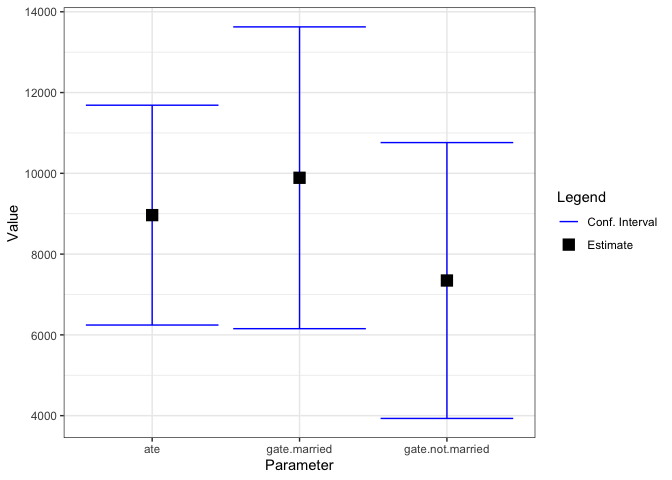
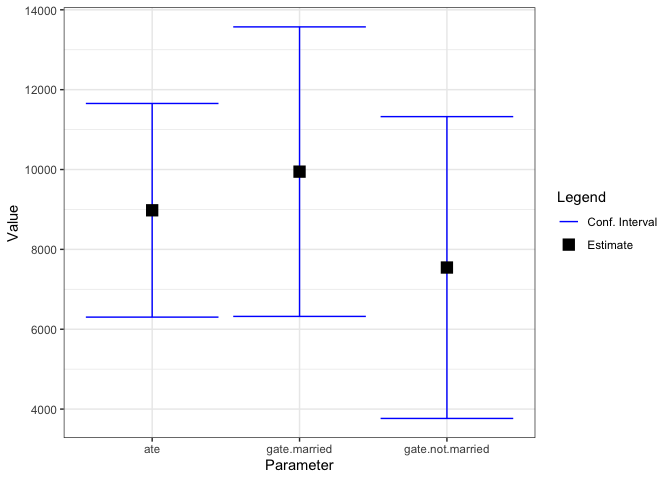
- fix summary

diff --git a/README.md b/README.md
@@ -67,23 +67,23 @@ summary(dml.plm)
 #> 
 #>  Model: Partially Linear 
 #>  Cross-Fitting: 5 folds, 5 reps 
-#>  ML Method: outcome (ranger, R2 = 0.271), treatment (ranger, R2 = 0.116)
+#>  ML Method: outcome (ranger, R2 = 0.263), treatment (ranger, R2 = 0.117)
 #>  Tuning: clean 
 #> 
 #> Average Treatment Effect: 
 #> 
 #>     Estimate Std. Error t value   P(>|t|)    
-#> ate   8965.2     1388.6  6.4564 1.072e-10 ***
+#> ate   8978.9     1365.1  6.5776 4.782e-11 ***
 #> ---
 #> Signif. codes:  0 '***' 0.001 '**' 0.01 '*' 0.05 '.' 0.1 ' ' 1
 #> 
 #> Group Average Treatment Effect: 
 #> 
 #>         Estimate Std. Error t value   P(>|t|)    
-#> gate.q1   4466.0     1058.5  4.2190 2.454e-05 ***
-#> gate.q2   3303.7     1213.3  2.7229 0.0064703 ** 
-#> gate.q3   6788.9     1859.7  3.6504 0.0002618 ***
-#> gate.q4  18393.8     4051.2  4.5403 5.616e-06 ***
+#> gate.q1   4470.4     1036.9  4.3112 1.624e-05 ***
+#> gate.q2   3180.6     1254.3  2.5357 0.0112208 *  
+#> gate.q3   6785.9     1925.4  3.5245 0.0004244 ***
+#> gate.q4  18226.3     4071.0  4.4771 7.567e-06 ***
 #> ---
 #> Signif. codes:  0 '***' 0.001 '**' 0.01 '*' 0.05 '.' 0.1 ' ' 1
 #> 
@@ -96,27 +96,27 @@ summary(dml.plm, combine.method = "mean")
 #> 
 #>  Model: Partially Linear 
 #>  Cross-Fitting: 5 folds, 5 reps 
-#>  ML Method: outcome (ranger, R2 = 0.269), treatment (ranger, R2 = 0.116)
+#>  ML Method: outcome (ranger, R2 = 0.262), treatment (ranger, R2 = 0.116)
 #>  Tuning: clean 
 #> 
 #> Average Treatment Effect: 
 #> 
 #>     Estimate Std. Error t value   P(>|t|)    
-#> ate   9073.0     1328.7  6.8283 8.591e-12 ***
+#> ate   8983.4     1337.7  6.7156 1.873e-11 ***
 #> ---
 #> Signif. codes:  0 '***' 0.001 '**' 0.01 '*' 0.05 '.' 0.1 ' ' 1
 #> 
 #> Group Average Treatment Effect: 
 #> 
 #>         Estimate Std. Error t value   P(>|t|)    
-#> gate.q1   4484.8     1025.4  4.3738 1.221e-05 ***
-#> gate.q2   3240.8     1191.1  2.7208 0.0065119 ** 
-#> gate.q3   6731.6     1844.4  3.6498 0.0002624 ***
-#> gate.q4  18522.3     3939.8  4.7013 2.585e-06 ***
+#> gate.q1   4464.5     1034.9  4.3138 1.605e-05 ***
+#> gate.q2   3225.3     1201.2  2.6850 0.0072523 ** 
+#> gate.q3   6804.1     1853.3  3.6713 0.0002414 ***
+#> gate.q4  18164.4     3990.9  4.5514 5.329e-06 ***
 #> ---
 #> Signif. codes:  0 '***' 0.001 '**' 0.01 '*' 0.05 '.' 0.1 ' ' 1
 #> 
-#> Note: DML estimates combined using the median method.
+#> Note: DML estimates combined using the mean method.
 ```
 
 ### extract coefs, se, confidence intervals
@@ -125,40 +125,40 @@ summary(dml.plm, combine.method = "mean")
 # coef median method (default)
 coef(dml.plm)
 #>       ate   gate.q1   gate.q2   gate.q3   gate.q4 
-#>  8965.198  4466.042  3303.666  6788.857 18393.828
+#>  8978.883  4470.375  3180.599  6785.947 18226.276
 
 # coef mean method (default)
 coef(dml.plm, combine.method = "mean")
 #>       ate   gate.q1   gate.q2   gate.q3   gate.q4 
-#>  9073.003  4484.794  3240.847  6731.565 18522.309
+#>  8983.350  4464.520  3225.331  6804.128 18164.356
 
 # se median method (default)
 se(dml.plm); 
 #>      ate  gate.q1  gate.q2  gate.q3  gate.q4 
-#> 1388.567 1058.547 1213.269 1859.737 4051.194
+#> 1365.076 1036.921 1254.304 1925.390 4071.009
 
 # se median method (default)
 se(dml.plm, combine.method = "mean")
 #>      ate  gate.q1  gate.q2  gate.q3  gate.q4 
-#> 1328.729 1025.371 1191.127 1844.364 3939.797
+#> 1337.685 1034.942 1201.227 1853.348 3990.944
 
 # confint median method (default)
 confint(dml.plm) 
 #>              2.5 %    97.5 %
-#> ate      6243.6563 11686.740
-#> gate.q1  2391.3276  6540.756
-#> gate.q2   925.7016  5681.630
-#> gate.q3  3143.8398 10433.875
-#> gate.q4 10453.6339 26334.022
+#> ate      6303.3823 11654.383
+#> gate.q1  2438.0482  6502.702
+#> gate.q2   722.2076  5638.990
+#> gate.q3  3012.2521 10559.641
+#> gate.q4 10247.2451 26205.306
 
 # confint mean method
 confint(dml.plm, combine.method = "mean")
-#>              2.5 %    97.5 %
-#> ate      6468.7433 11677.264
-#> gate.q1  2475.1033  6494.486
-#> gate.q2   906.2816  5575.412
-#> gate.q3  3116.6781 10346.452
-#> gate.q4 10800.4491 26244.168
+#>             2.5 %    97.5 %
+#> ate      6361.535 11605.165
+#> gate.q1  2436.071  6492.969
+#> gate.q2   870.969  5579.694
+#> gate.q3  3171.633 10436.622
+#> gate.q4 10342.249 25986.463
 ```
 
 ### plot
@@ -174,54 +174,41 @@ plot(dml.plm)
 ``` r
 ## compute GATE by married
 g2 <- ifelse(pension$marr, "married", "not.married")
-
-## compute GATEs
 dml.g2 <- dml_gate(dml.fit = dml.plm, groups = g2)
-dml.g2
-#> 
-#> Debiased Machine Learning
-#> 
-#> Call:
-#> dml(y = y, d = d, x = x, model = "plm", groups = g2, cf.folds = 5, 
-#>     cf.reps = 5)
-#> 
-#> Estimates:
-#>              ate      gate.married  gate.not.married  
-#>             8965              9890              7346
-
 summary(dml.g2)
 #> 
 #> Debiased Machine Learning
 #> 
 #>  Model: Partially Linear 
 #>  Cross-Fitting: 5 folds, 5 reps 
-#>  ML Method: outcome (ranger, R2 = 0.271), treatment (ranger, R2 = 0.116)
+#>  ML Method: outcome (ranger, R2 = 0.263), treatment (ranger, R2 = 0.117)
 #>  Tuning: clean 
 #> 
 #> Average Treatment Effect: 
 #> 
 #>     Estimate Std. Error t value   P(>|t|)    
-#> ate   8965.2     1388.6  6.4564 1.072e-10 ***
+#> ate   8978.9     1365.1  6.5776 4.782e-11 ***
 #> ---
 #> Signif. codes:  0 '***' 0.001 '**' 0.01 '*' 0.05 '.' 0.1 ' ' 1
 #> 
 #> Group Average Treatment Effect: 
 #> 
 #>                  Estimate Std. Error t value   P(>|t|)    
-#> gate.married       9889.7     1906.3  5.1879 2.126e-07 ***
-#> gate.not.married   7346.2     1742.4  4.2161 2.486e-05 ***
+#> gate.married       9946.8     1849.8  5.3772 7.566e-08 ***
+#> gate.not.married   7545.4     1928.3  3.9129 9.119e-05 ***
 #> ---
 #> Signif. codes:  0 '***' 0.001 '**' 0.01 '*' 0.05 '.' 0.1 ' ' 1
 #> 
 #> Note: DML estimates combined using the median method.
+
 coef(dml.g2)
 #>              ate     gate.married gate.not.married 
-#>         8965.198         9889.721         7346.183
+#>         8978.883         9946.838         7545.380
 confint(dml.g2)
 #>                     2.5 %   97.5 %
-#> ate              6243.656 11686.74
-#> gate.married     6153.456 13625.99
-#> gate.not.married 3931.085 10761.28
+#> ate              6303.382 11654.38
+#> gate.married     6321.253 13572.42
+#> gate.not.married 3765.924 11324.84
 plot(dml.g2)
 ```
 
